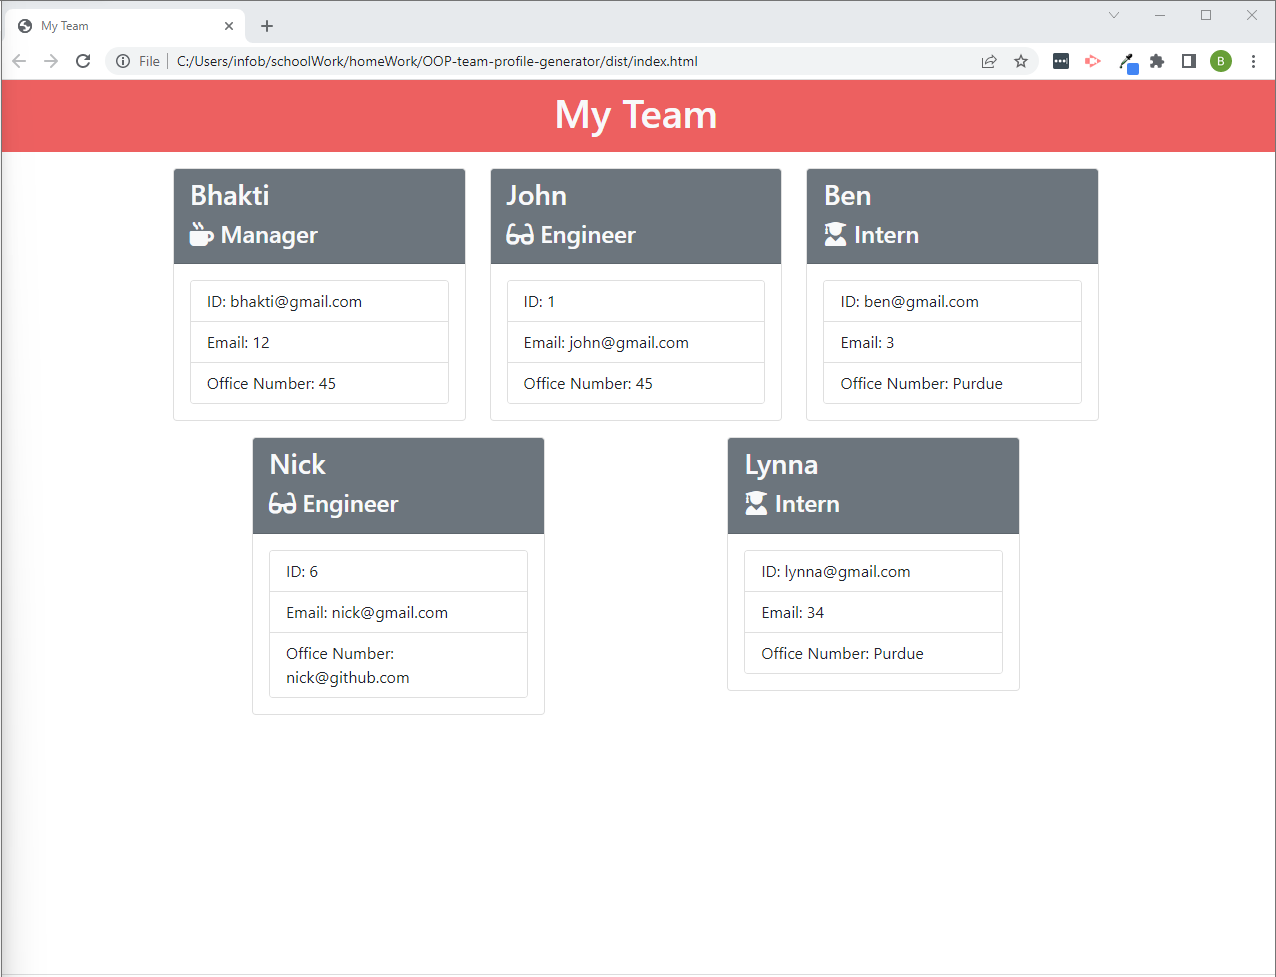
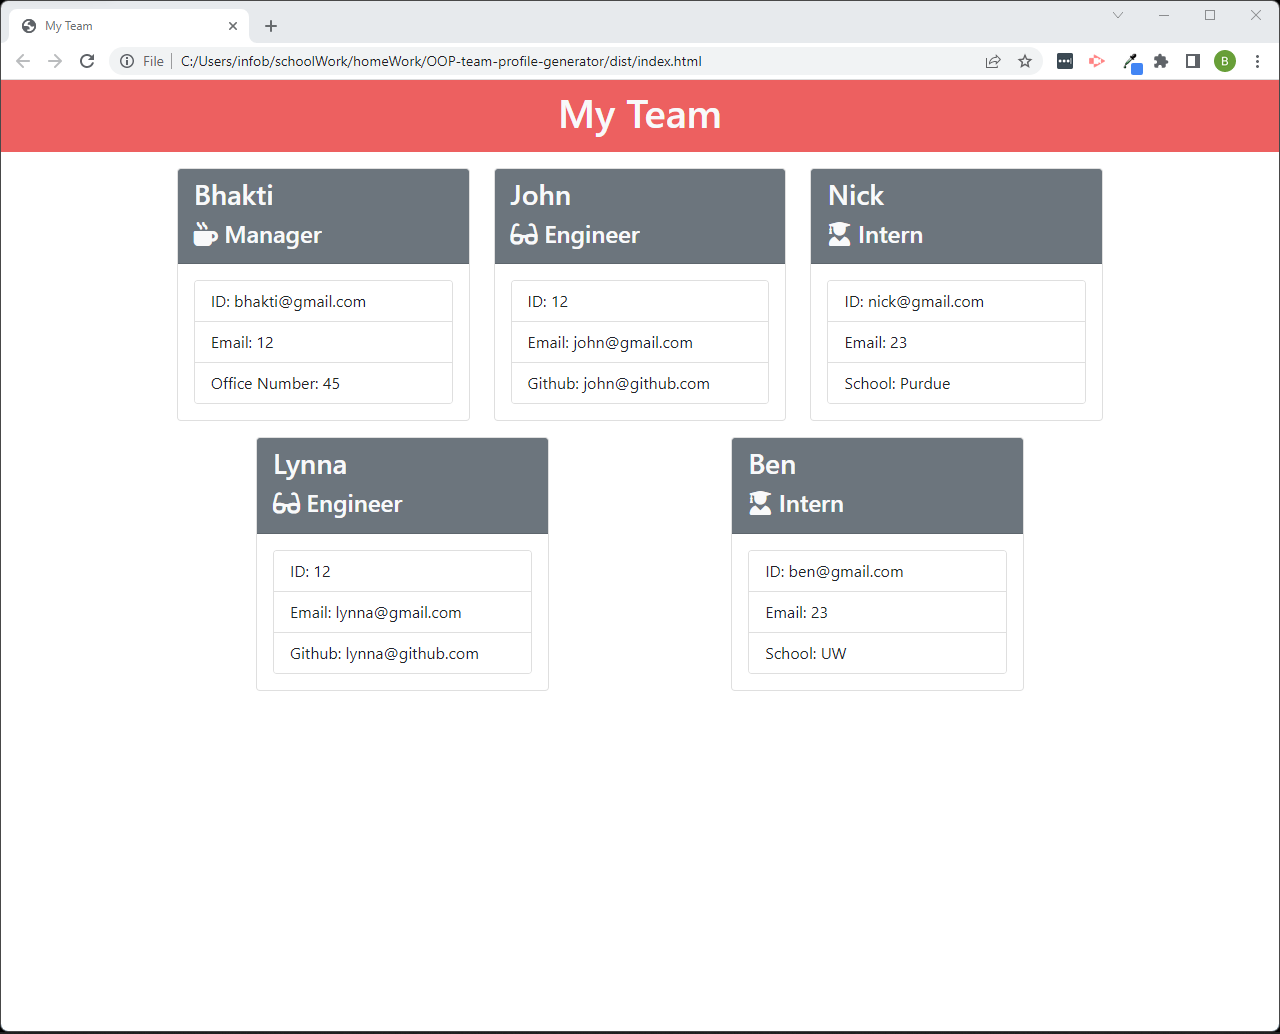
corrected engineer and intern cards to show github and school respectively, screenshot in readme updated, index.html in dist updated.

diff --git a/dist/index.html b/dist/index.html
@@ -52,9 +52,51 @@
             <div class="card-body">
                 <div class="card">
                     <ul class="list-group list-group-flush">
-                    <li class="list-group-item">ID: 1</li>
+                    <li class="list-group-item">ID: 12</li>
                     <li class="list-group-item">Email: john@gmail.com</li>
-                    <li class="list-group-item">Office Number: 45</li>
+                    <li class="list-group-item">Github: john@github.com</li>
+                    </ul>
+                </div>
+            </div>
+        </div>
+    </div><script src="https://cdn.jsdelivr.net/npm/@popperjs/core@2.10.2/dist/umd/popper.min.js" integrity="sha384-7+zCNj/IqJ95wo16oMtfsKbZ9ccEh31eOz1HGyDuCQ6wgnyJNSYdrPa03rtR1zdB" crossorigin="anonymous"></script>
+<script src="https://cdn.jsdelivr.net/npm/bootstrap@5.1.3/dist/js/bootstrap.min.js" integrity="sha384-QJHtvGhmr9XOIpI6YVutG+2QOK9T+ZnN4kzFN1RtK3zEFEIsxhlmWl5/YESvpZ13" crossorigin="anonymous"></script>
+
+</body>
+</html>
+    <div class="col-12 col-sm-6 col-lg-4 mb-3">
+        <div class="card">
+            <div class="card-header text-light bg-secondary">
+                <h3>Nick</h3>
+                <h4> <i class="fa-solid fa-user-graduate"></i> Intern</h4>
+            </div>
+            <div class="card-body">
+                <div class="card">
+                    <ul class="list-group list-group-flush">
+                    <li class="list-group-item">ID: nick@gmail.com</li>
+                    <li class="list-group-item">Email: 23</li>
+                    <li class="list-group-item">School: Purdue</li>
+                    </ul>
+                </div>
+            </div>
+        </div>
+    </div><script src="https://cdn.jsdelivr.net/npm/@popperjs/core@2.10.2/dist/umd/popper.min.js" integrity="sha384-7+zCNj/IqJ95wo16oMtfsKbZ9ccEh31eOz1HGyDuCQ6wgnyJNSYdrPa03rtR1zdB" crossorigin="anonymous"></script>
+<script src="https://cdn.jsdelivr.net/npm/bootstrap@5.1.3/dist/js/bootstrap.min.js" integrity="sha384-QJHtvGhmr9XOIpI6YVutG+2QOK9T+ZnN4kzFN1RtK3zEFEIsxhlmWl5/YESvpZ13" crossorigin="anonymous"></script>
+
+</body>
+</html>
+    <div class="col-12 col-sm-6 col-lg-4 mb-3">
+        <div class="card">
+            <div class="card-header text-light bg-secondary">
+                <h3>Lynna</h3>
+                <h4> <i class="fa-solid fa-glasses"></i> Engineer</h4>
+            </div>
+            <div class="card-body">
+                <div class="card">
+                    <ul class="list-group list-group-flush">
+                    <li class="list-group-item">ID: 12</li>
+                    <li class="list-group-item">Email: lynna@gmail.com</li>
+                    <li class="list-group-item">Github: lynna@github.com</li>
                     </ul>
                 </div>
             </div>
@@ -74,50 +116,8 @@
                 <div class="card">
                     <ul class="list-group list-group-flush">
                     <li class="list-group-item">ID: ben@gmail.com</li>
-                    <li class="list-group-item">Email: 3</li>
-                    <li class="list-group-item">Office Number: Purdue</li>
-                    </ul>
-                </div>
-            </div>
-        </div>
-    </div><script src="https://cdn.jsdelivr.net/npm/@popperjs/core@2.10.2/dist/umd/popper.min.js" integrity="sha384-7+zCNj/IqJ95wo16oMtfsKbZ9ccEh31eOz1HGyDuCQ6wgnyJNSYdrPa03rtR1zdB" crossorigin="anonymous"></script>
-<script src="https://cdn.jsdelivr.net/npm/bootstrap@5.1.3/dist/js/bootstrap.min.js" integrity="sha384-QJHtvGhmr9XOIpI6YVutG+2QOK9T+ZnN4kzFN1RtK3zEFEIsxhlmWl5/YESvpZ13" crossorigin="anonymous"></script>
-
-</body>
-</html>
-    <div class="col-12 col-sm-6 col-lg-4 mb-3">
-        <div class="card">
-            <div class="card-header text-light bg-secondary">
-                <h3>Nick</h3>
-                <h4> <i class="fa-solid fa-glasses"></i> Engineer</h4>
-            </div>
-            <div class="card-body">
-                <div class="card">
-                    <ul class="list-group list-group-flush">
-                    <li class="list-group-item">ID: 6</li>
-                    <li class="list-group-item">Email: nick@gmail.com</li>
-                    <li class="list-group-item">Office Number: nick@github.com</li>
-                    </ul>
-                </div>
-            </div>
-        </div>
-    </div><script src="https://cdn.jsdelivr.net/npm/@popperjs/core@2.10.2/dist/umd/popper.min.js" integrity="sha384-7+zCNj/IqJ95wo16oMtfsKbZ9ccEh31eOz1HGyDuCQ6wgnyJNSYdrPa03rtR1zdB" crossorigin="anonymous"></script>
-<script src="https://cdn.jsdelivr.net/npm/bootstrap@5.1.3/dist/js/bootstrap.min.js" integrity="sha384-QJHtvGhmr9XOIpI6YVutG+2QOK9T+ZnN4kzFN1RtK3zEFEIsxhlmWl5/YESvpZ13" crossorigin="anonymous"></script>
-
-</body>
-</html>
-    <div class="col-12 col-sm-6 col-lg-4 mb-3">
-        <div class="card">
-            <div class="card-header text-light bg-secondary">
-                <h3>Lynna</h3>
-                <h4> <i class="fa-solid fa-user-graduate"></i> Intern</h4>
-            </div>
-            <div class="card-body">
-                <div class="card">
-                    <ul class="list-group list-group-flush">
-                    <li class="list-group-item">ID: lynna@gmail.com</li>
-                    <li class="list-group-item">Email: 34</li>
-                    <li class="list-group-item">Office Number: Purdue</li>
+                    <li class="list-group-item">Email: 23</li>
+                    <li class="list-group-item">School: UW</li>
                     </ul>
                 </div>
             </div>

diff --git a/src/EngineerCard.js b/src/EngineerCard.js
@@ -12,7 +12,7 @@ function EngineerCard (data) {
                     <ul class="list-group list-group-flush">
                     <li class="list-group-item">ID: ${data.getId()}</li>
                     <li class="list-group-item">Email: ${data.getEmail()}</li>
-                    <li class="list-group-item">Office Number: ${data.getGithub()}</li>
+                    <li class="list-group-item">Github: ${data.getGithub()}</li>
                     </ul>
                 </div>
             </div>

diff --git a/src/InternCard.js b/src/InternCard.js
@@ -12,7 +12,7 @@ function InternCard (data) {
                     <ul class="list-group list-group-flush">
                     <li class="list-group-item">ID: ${data.getId()}</li>
                     <li class="list-group-item">Email: ${data.getEmail()}</li>
-                    <li class="list-group-item">Office Number: ${data.getSchool()}</li>
+                    <li class="list-group-item">School: ${data.getSchool()}</li>
                     </ul>
                 </div>
             </div>
